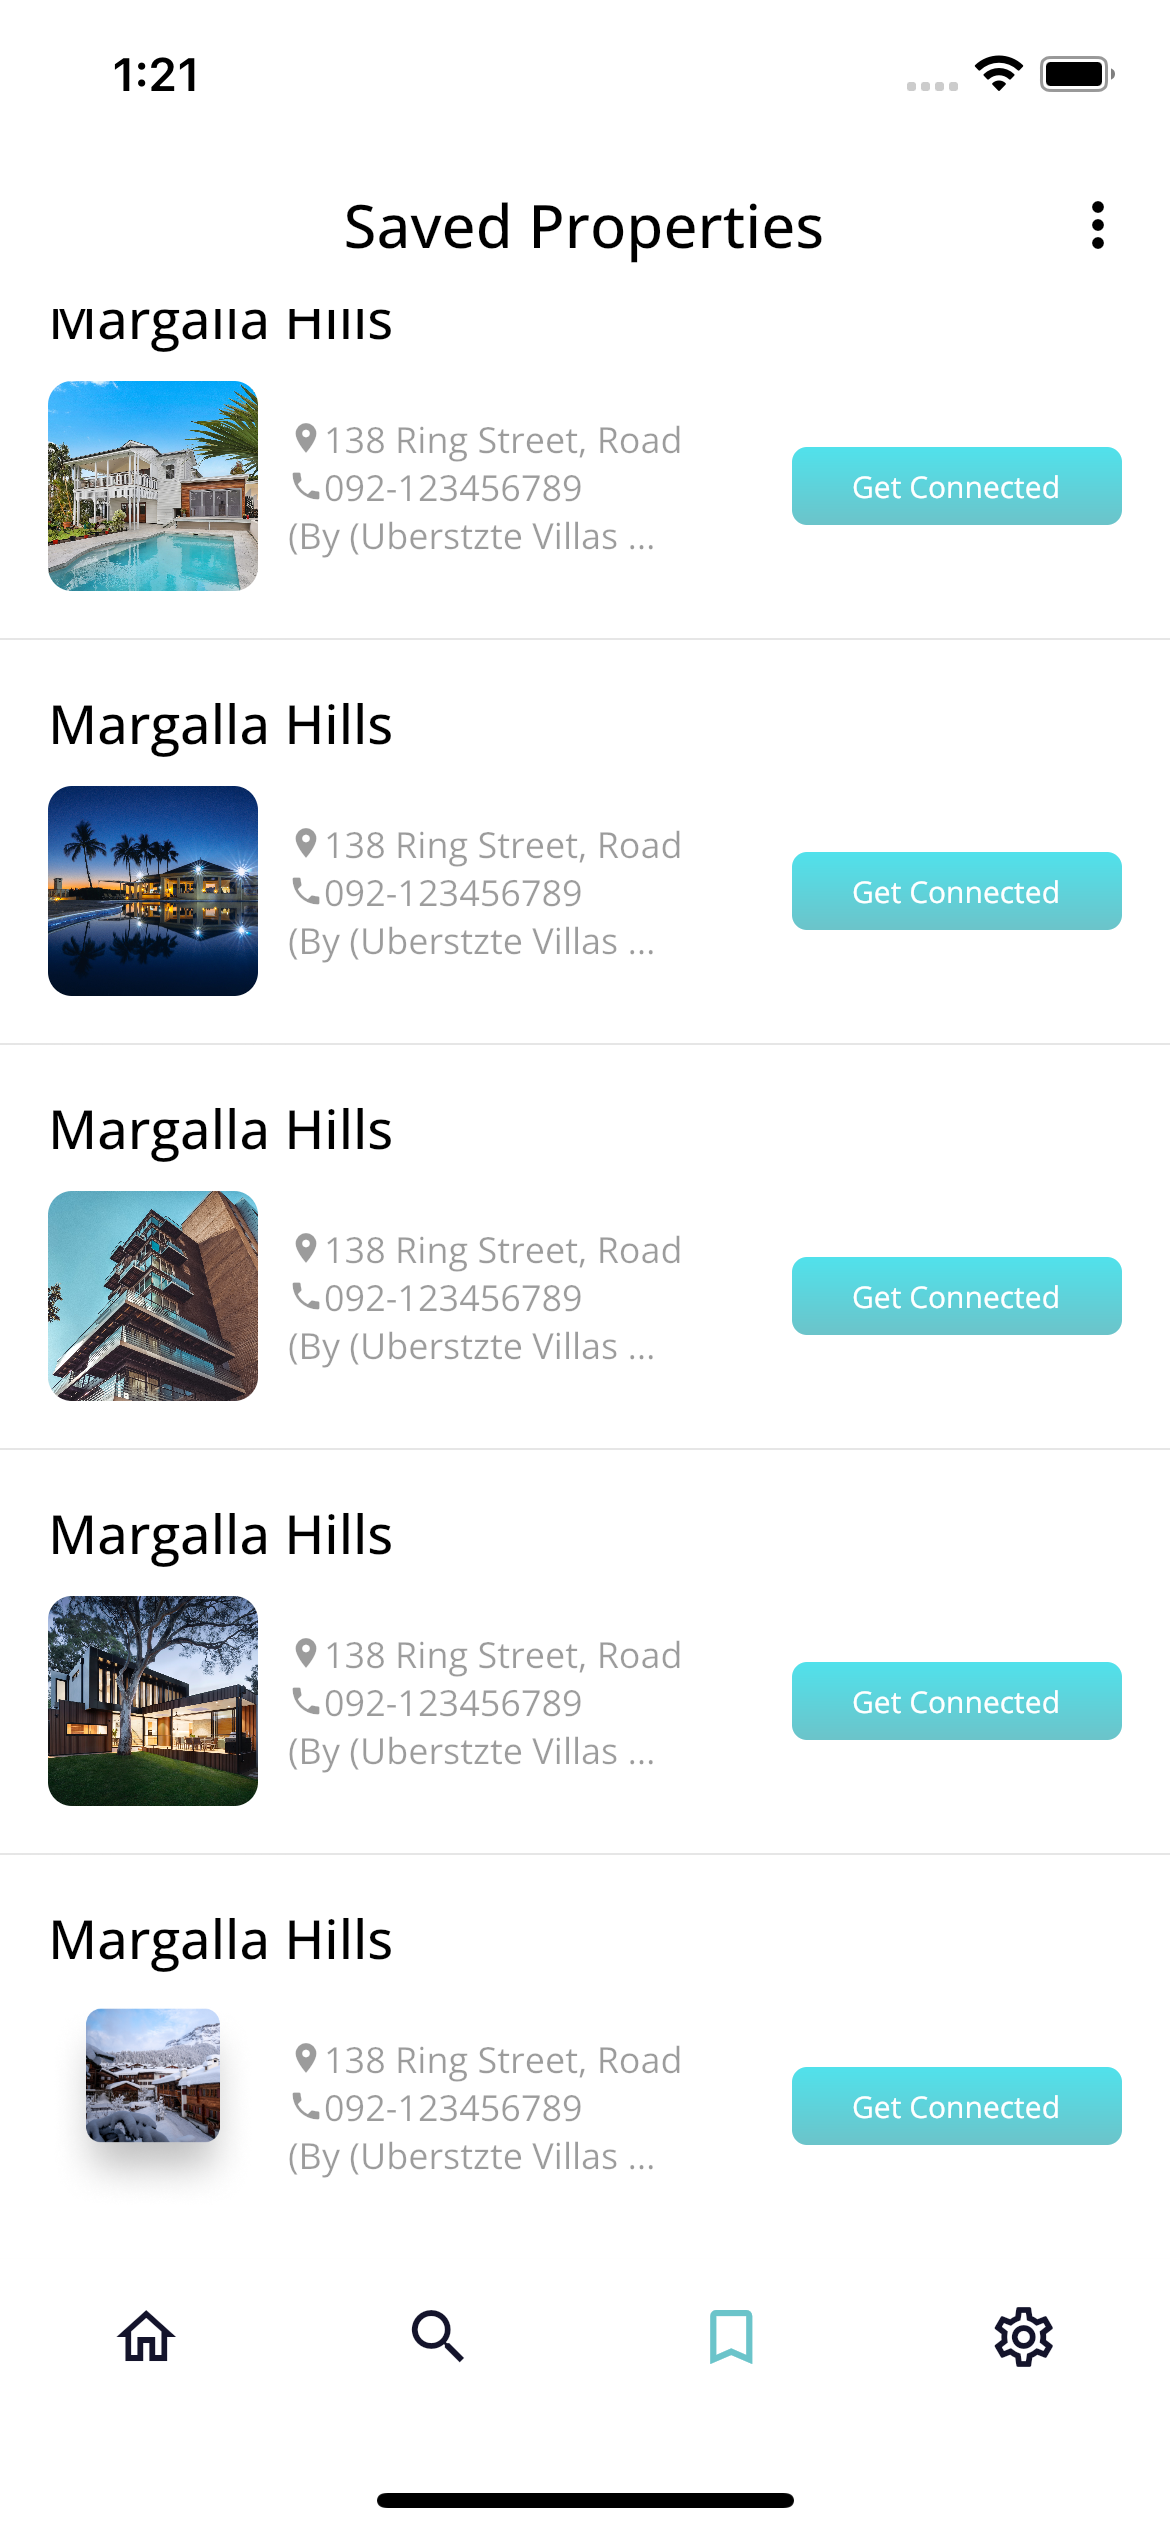
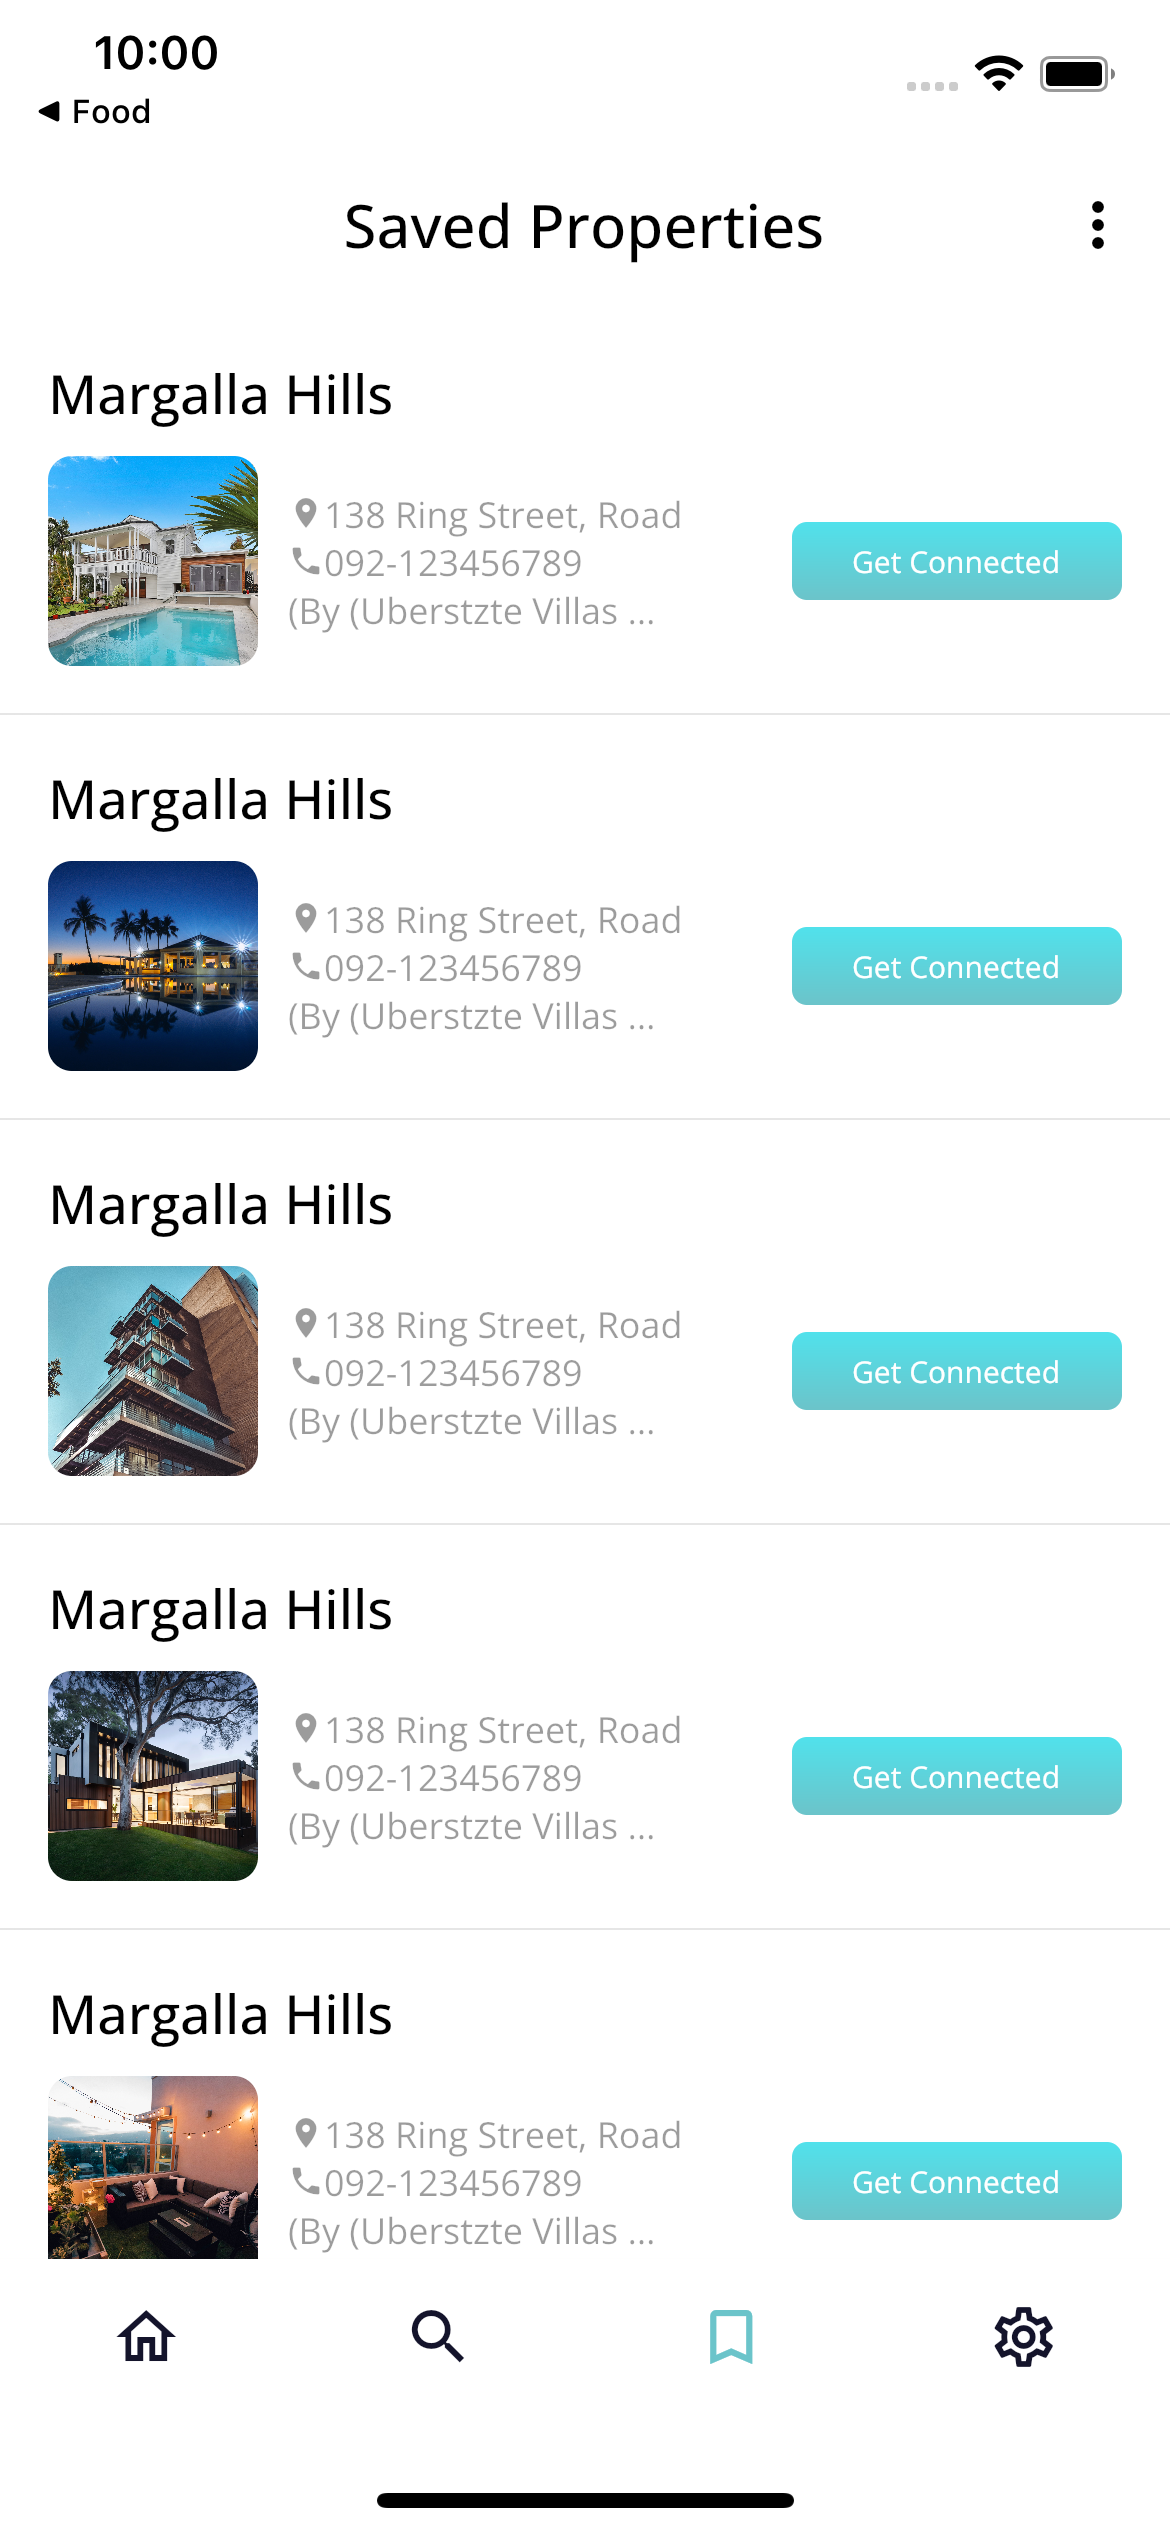
fixup! Update README file

diff --git a/lib/screen/property/search/search_screen.dart b/lib/screen/property/search/search_screen.dart
@@ -92,7 +92,7 @@ class _SearchScreenState extends State<SearchScreen> {
         },
         name: 'Margalla Hills',
         distance: 5.1,
-        thumbnail: 'assets/properties/property-7.jpg',
+        thumbnail: 'assets/properties/property-3.jpg',
         address: '138 Ring Street, Road',
         phoneNumber: '092-123456789',
         developer: '(Uberstzte Villas Ltd.)',

diff --git a/lib/screen/property/bookmark/bookmark_screen.dart b/lib/screen/property/bookmark/bookmark_screen.dart
@@ -72,7 +72,7 @@ class BookmarkScreen extends StatelessWidget {
           );
         },
         name: 'Margalla Hills',
-        thumbnail: 'assets/properties/property-7.jpg',
+        thumbnail: 'assets/properties/property-3.jpg',
         address: '138 Ring Street, Road',
         phoneNumber: '092-123456789',
         developer: '(Uberstzte Villas Ltd.)',
